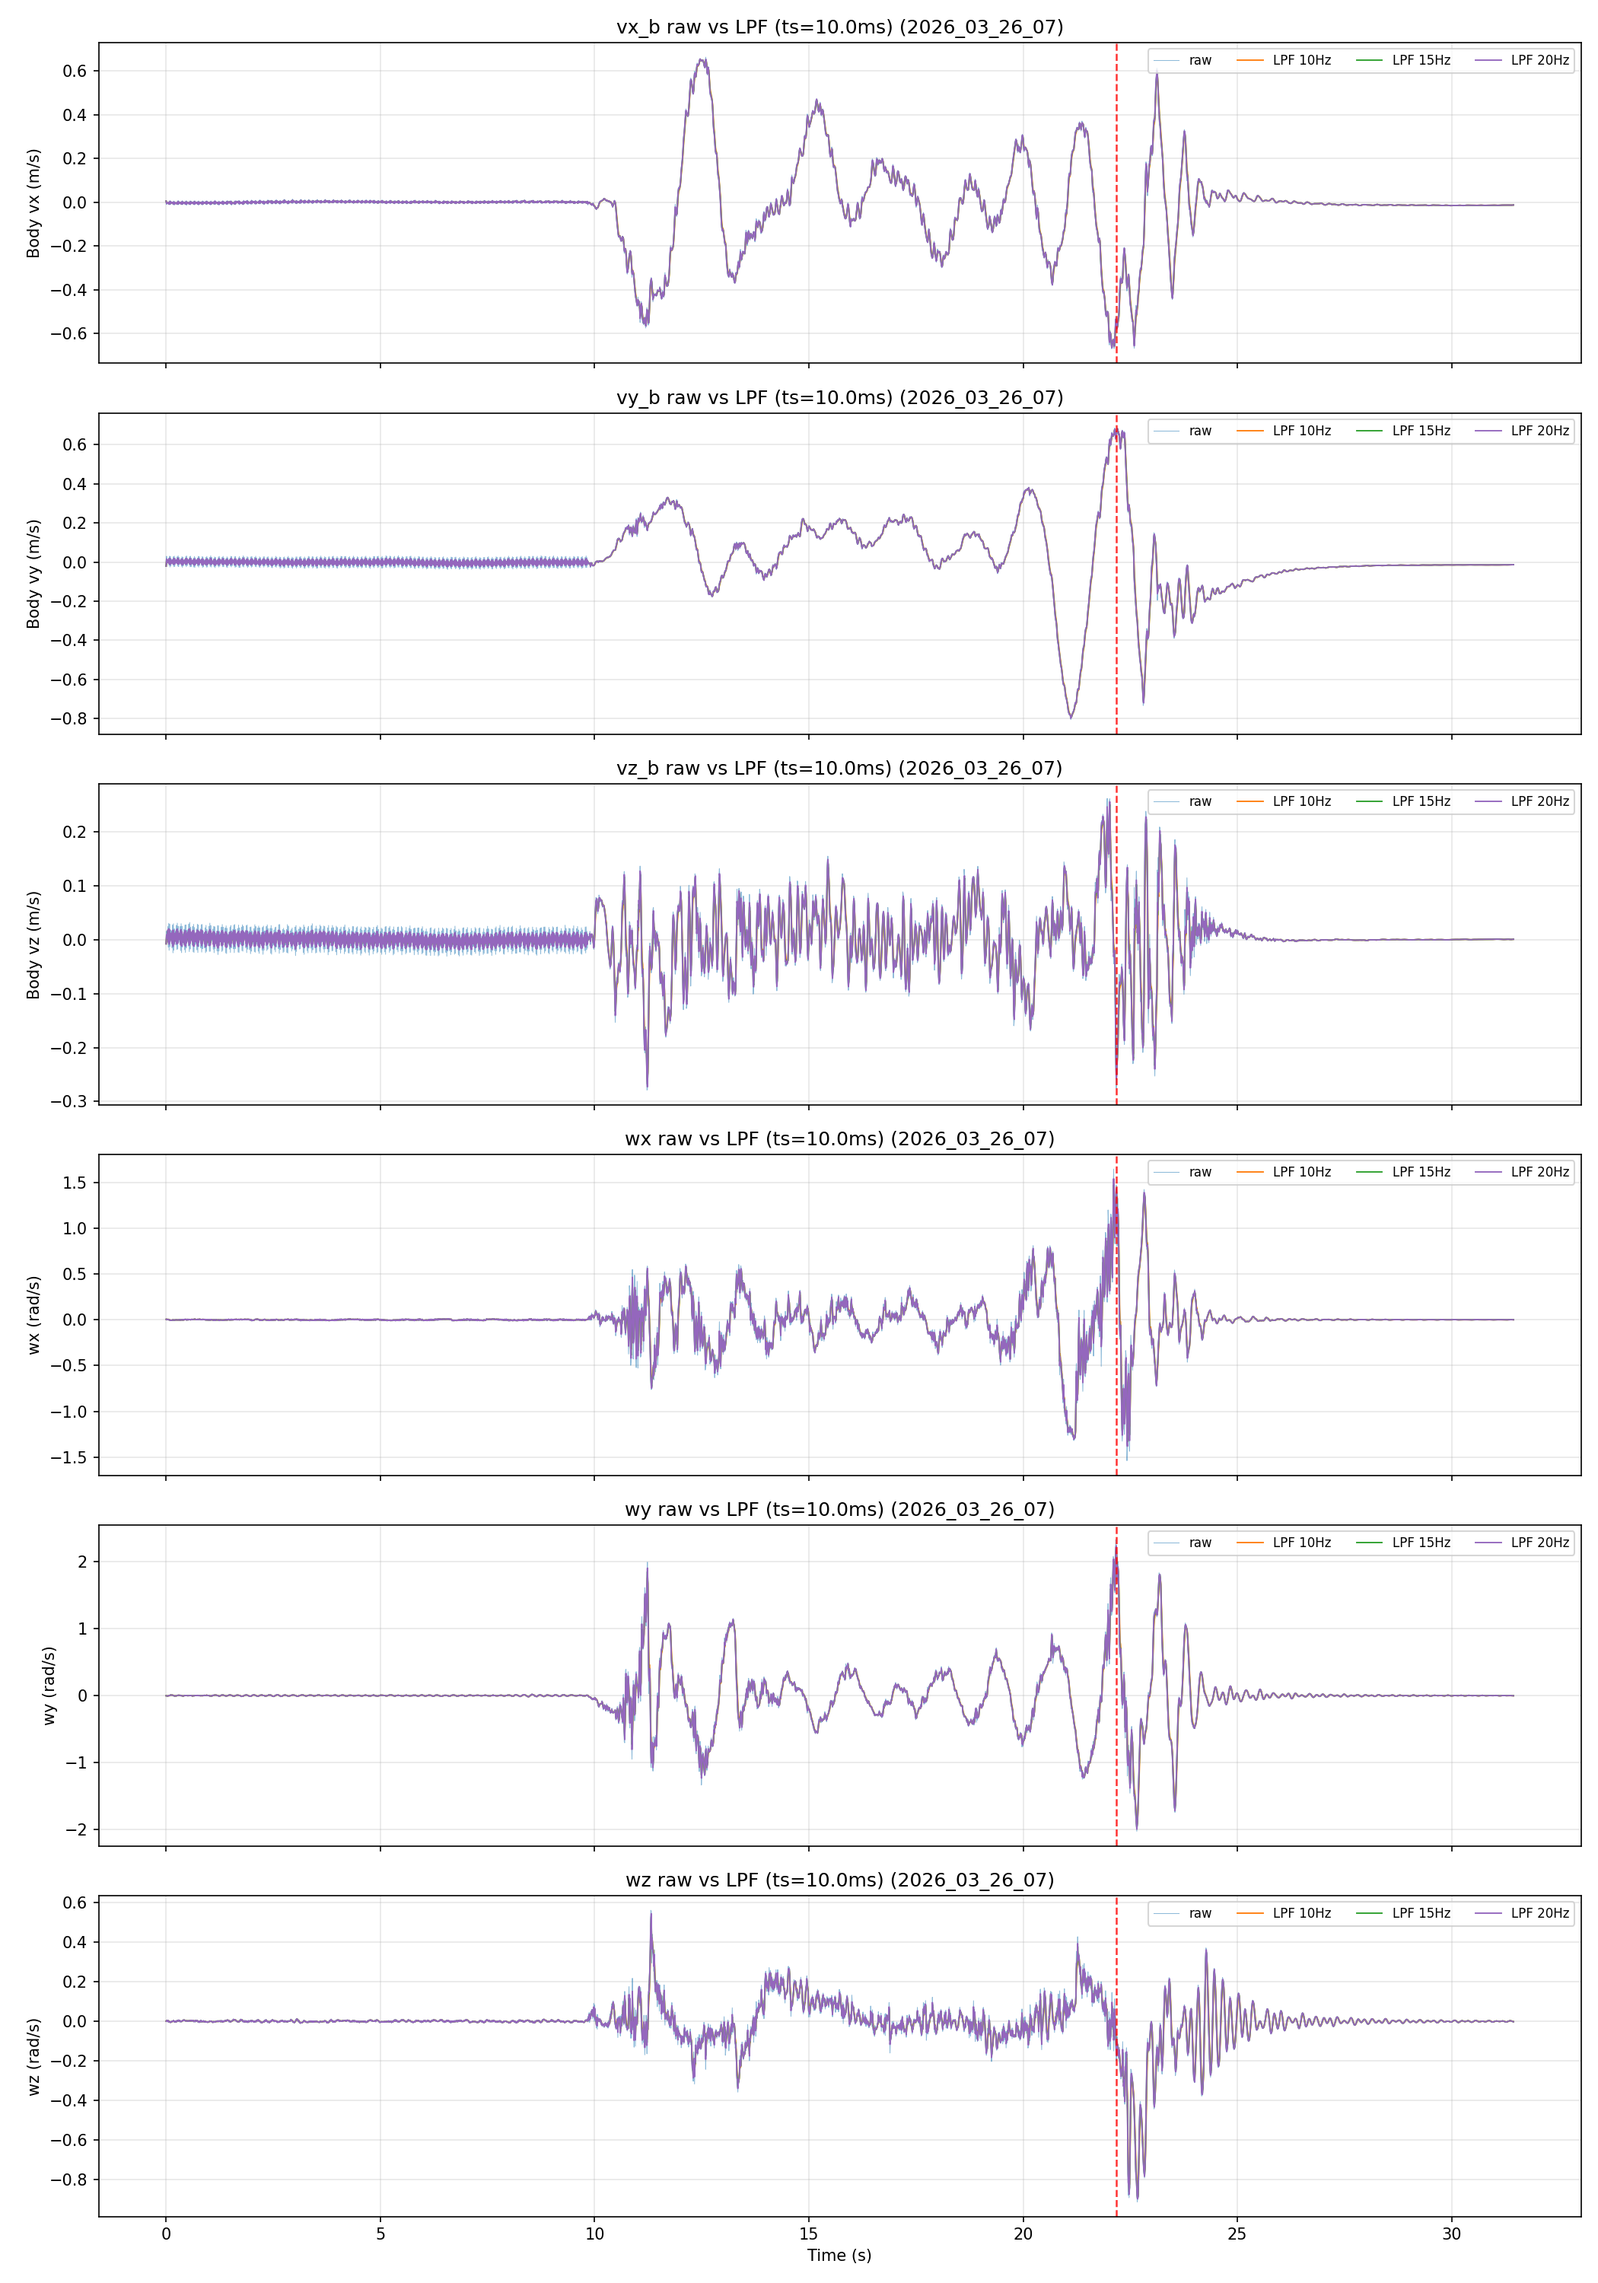
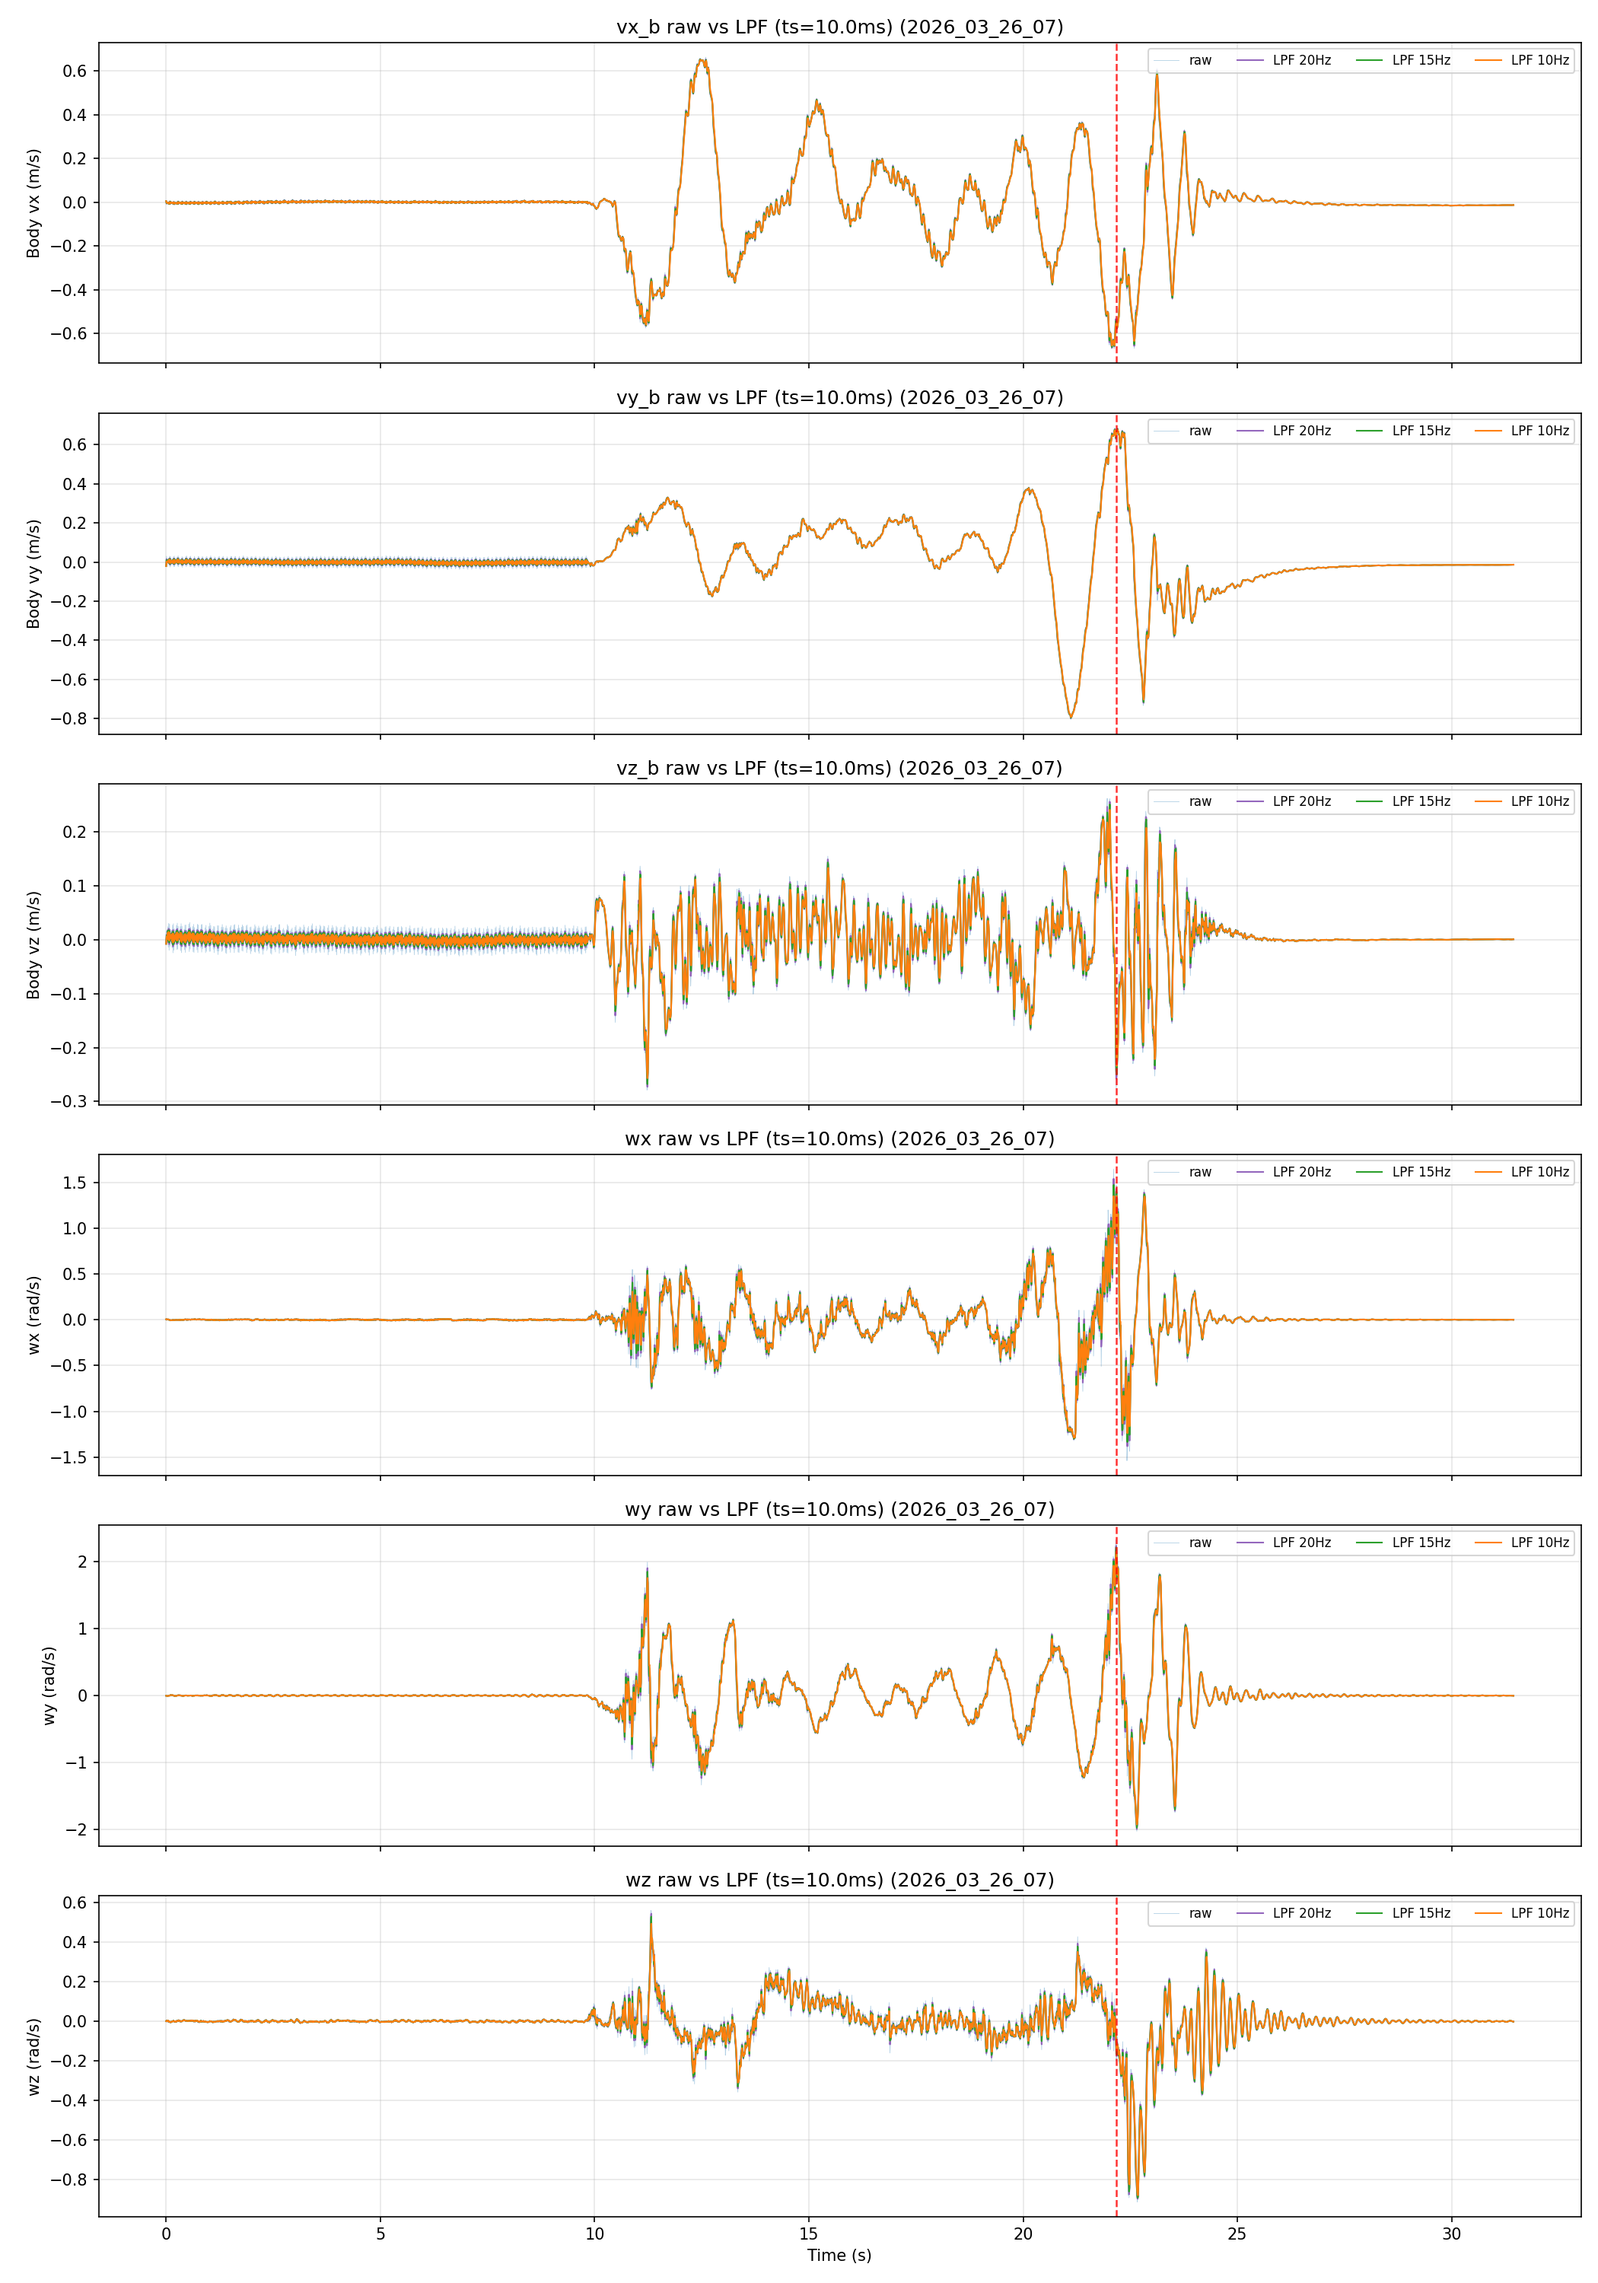
Fix LPF plot layering: draw raw first then 20→15→10 Hz on top
Raw signal drawn with low alpha at bottom, LPF curves layered
from noisiest (20Hz) to smoothest (10Hz) on top for visibility.

https://claude.ai/code/session_015hDTXF7MWidPDJrsc9iZ1y

diff --git a/bag_folder/plot_2026_03_26.py b/bag_folder/plot_2026_03_26.py
@@ -507,8 +507,9 @@ def plot_bag(bag_name, db_path):
     # Compute average sample time from odom timestamps
     dt_arr = np.diff(d['odom_t'])
     ts = np.median(dt_arr)
-    cutoffs = [10, 15, 20]
-    lpf_colors = ['tab:orange', 'tab:green', 'tab:purple']
+    # Plot order: raw (bottom) → 20 Hz → 15 Hz → 10 Hz (top, smoothest)
+    cutoffs_draw = [20, 15, 10]
+    lpf_colors_draw = ['tab:purple', 'tab:green', 'tab:orange']
 
     fig, axes = plt.subplots(6, 1, figsize=(14, 20), sharex=True)
     vel_labels = [
@@ -521,10 +522,10 @@ def plot_bag(bag_name, db_path):
     ]
     for idx, (name, sig, ylabel) in enumerate(vel_labels):
         ax = axes[idx]
-        ax.plot(d['odom_t'], sig, 'tab:blue', lw=0.5, alpha=0.5, label='raw')
-        for fc, clr in zip(cutoffs, lpf_colors):
+        ax.plot(d['odom_t'], sig, 'tab:blue', lw=0.4, alpha=0.35, label='raw')
+        for fc, clr in zip(cutoffs_draw, lpf_colors_draw):
             filtered = apply_lpf(sig, fc, ts)
-            ax.plot(d['odom_t'], filtered, color=clr, lw=0.9, label=f'LPF {fc}Hz')
+            ax.plot(d['odom_t'], filtered, color=clr, lw=1.0, label=f'LPF {fc}Hz')
         ax.set_ylabel(ylabel)
         ax.set_title(f'{name} raw vs LPF (ts={ts*1000:.1f}ms) ({bag_name})')
         ax.legend(loc='upper right', fontsize=8, ncol=4)
